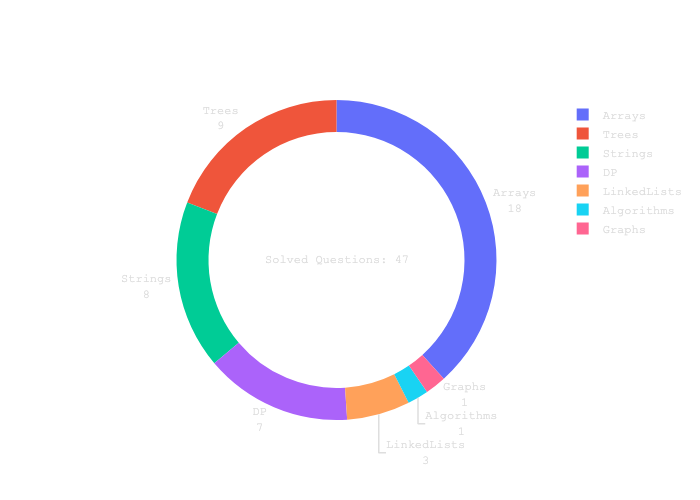
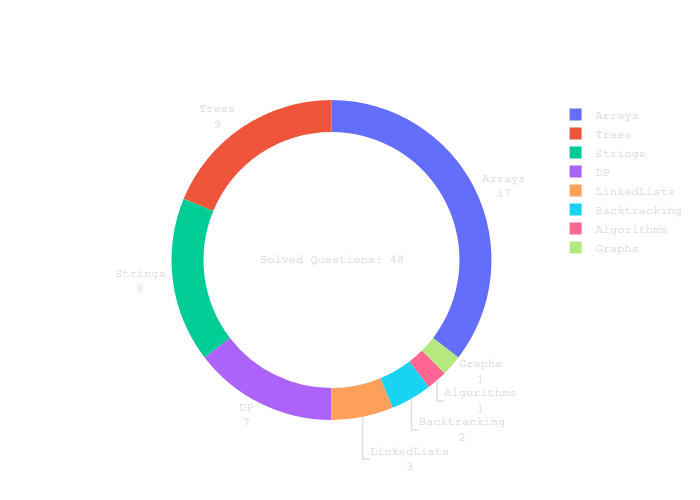
letter combinations backtracking

diff --git a/Arrays/buyAndSellStock.py b/Arrays/buyAndSellStock.py
@@ -1,21 +1,21 @@
 from typing import List
 
 
-def buyAndSellStockII(nums: List[int]) -> int:
-    if not nums:
+def buyAndSellStockII(prices: List[int]) -> int:
+    if not prices:
         return 0
     profit = 0
     l = r = 0
-    N = len(nums)
+    N = len(prices)
 
     while r < N - 1:
-        if nums[r] < nums[r + 1]:
+        if prices[r] < prices[r + 1]:
             r += 1
             if r == N - 1:
                 # sell on last day
-                profit += nums[r] - nums[l]
+                profit += prices[r] - prices[l]
         else:
-            profit += nums[r] - nums[l]
+            profit += prices[r] - prices[l]
             r += 1
             l = r
     return profit

diff --git a/Backtracking/letterCombinations.py b/Backtracking/letterCombinations.py
@@ -1,0 +1,33 @@
+from typing import List
+
+
+def letterCombinations(digits: str) -> List[str]:
+    if not digits:
+        return []
+
+    digit_map = {
+        "2": "abc",
+        "3": "def",
+        "4": "ghi",
+        "5": "jkl",
+        "6": "mno",
+        "7": "pqrs",
+        "8": "tuv",
+        "9": "wxyz",
+    }
+    res = []
+    N = len(digits)
+
+    def backtrack(s: str, start):
+        nonlocal digit_map, res, N, digits
+        if start == N:
+            res.append(s)
+            return
+        for char in digit_map[digits[start]]:
+            backtrack(s + char, start + 1)
+
+    backtrack("", 0)
+    return res
+
+
+print(letterCombinations("23"))
